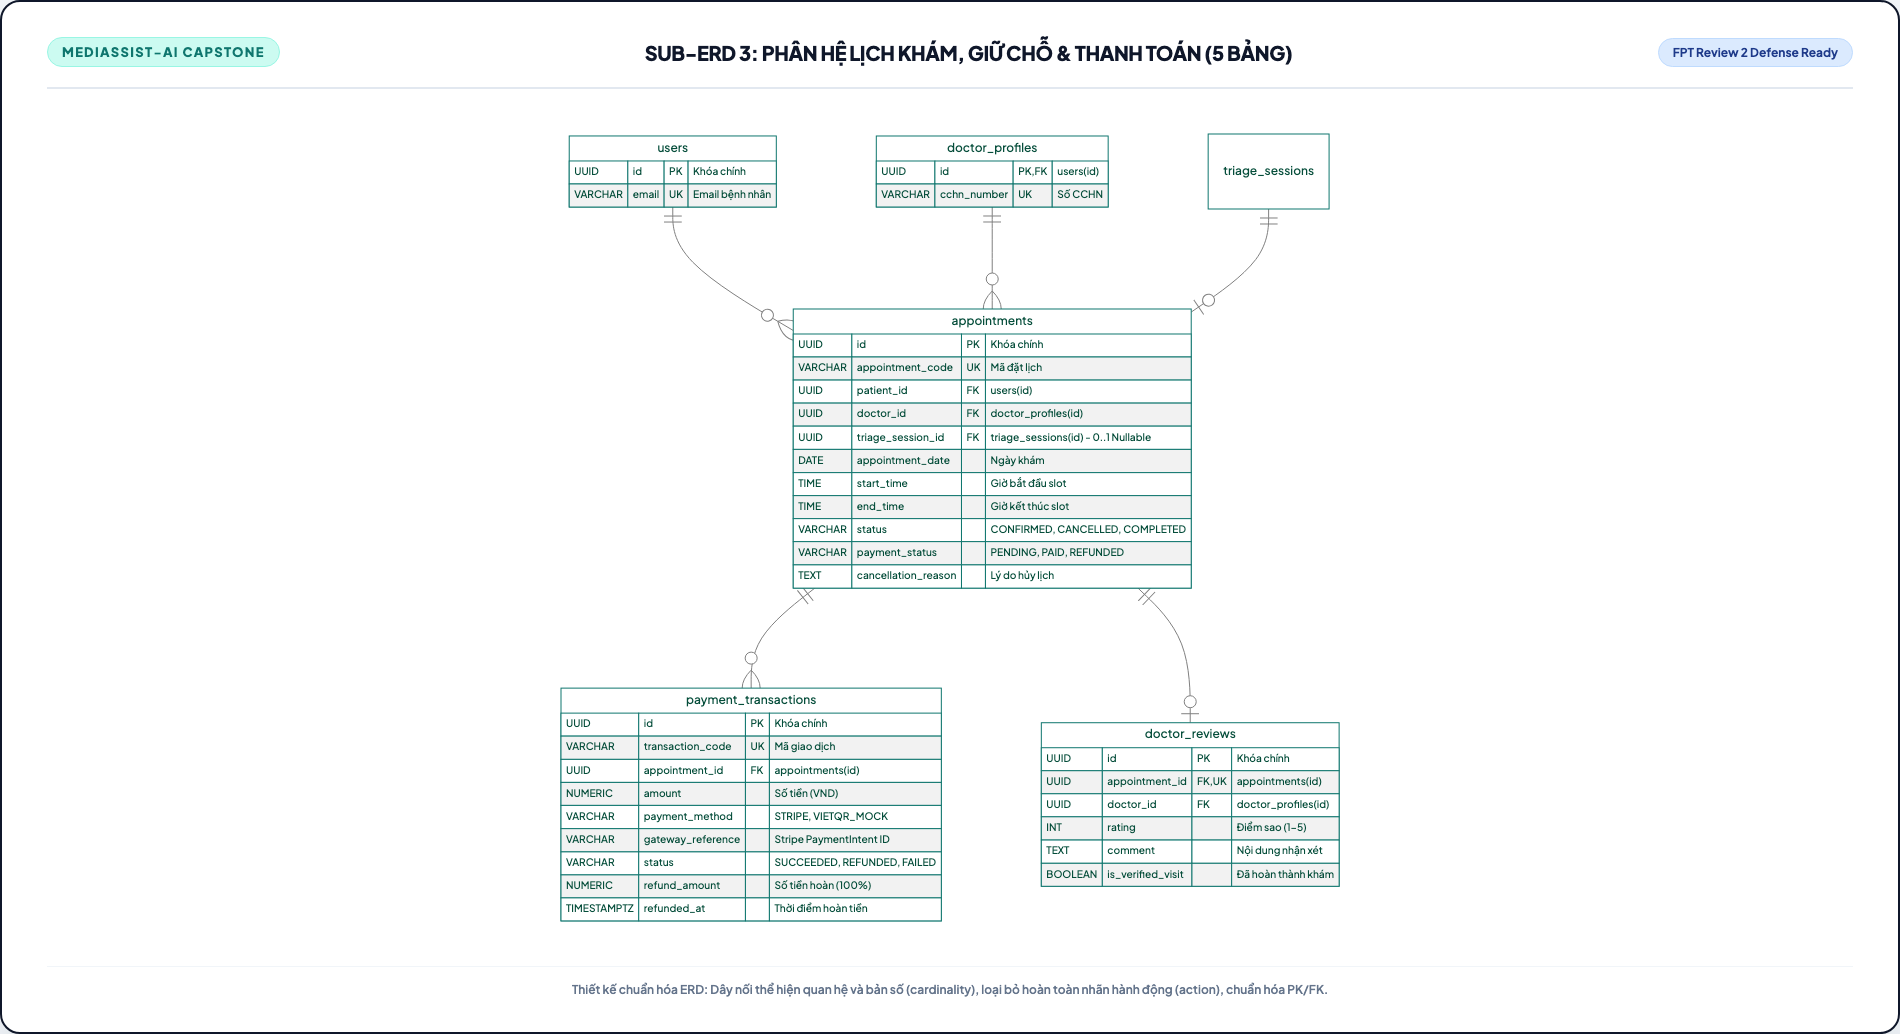
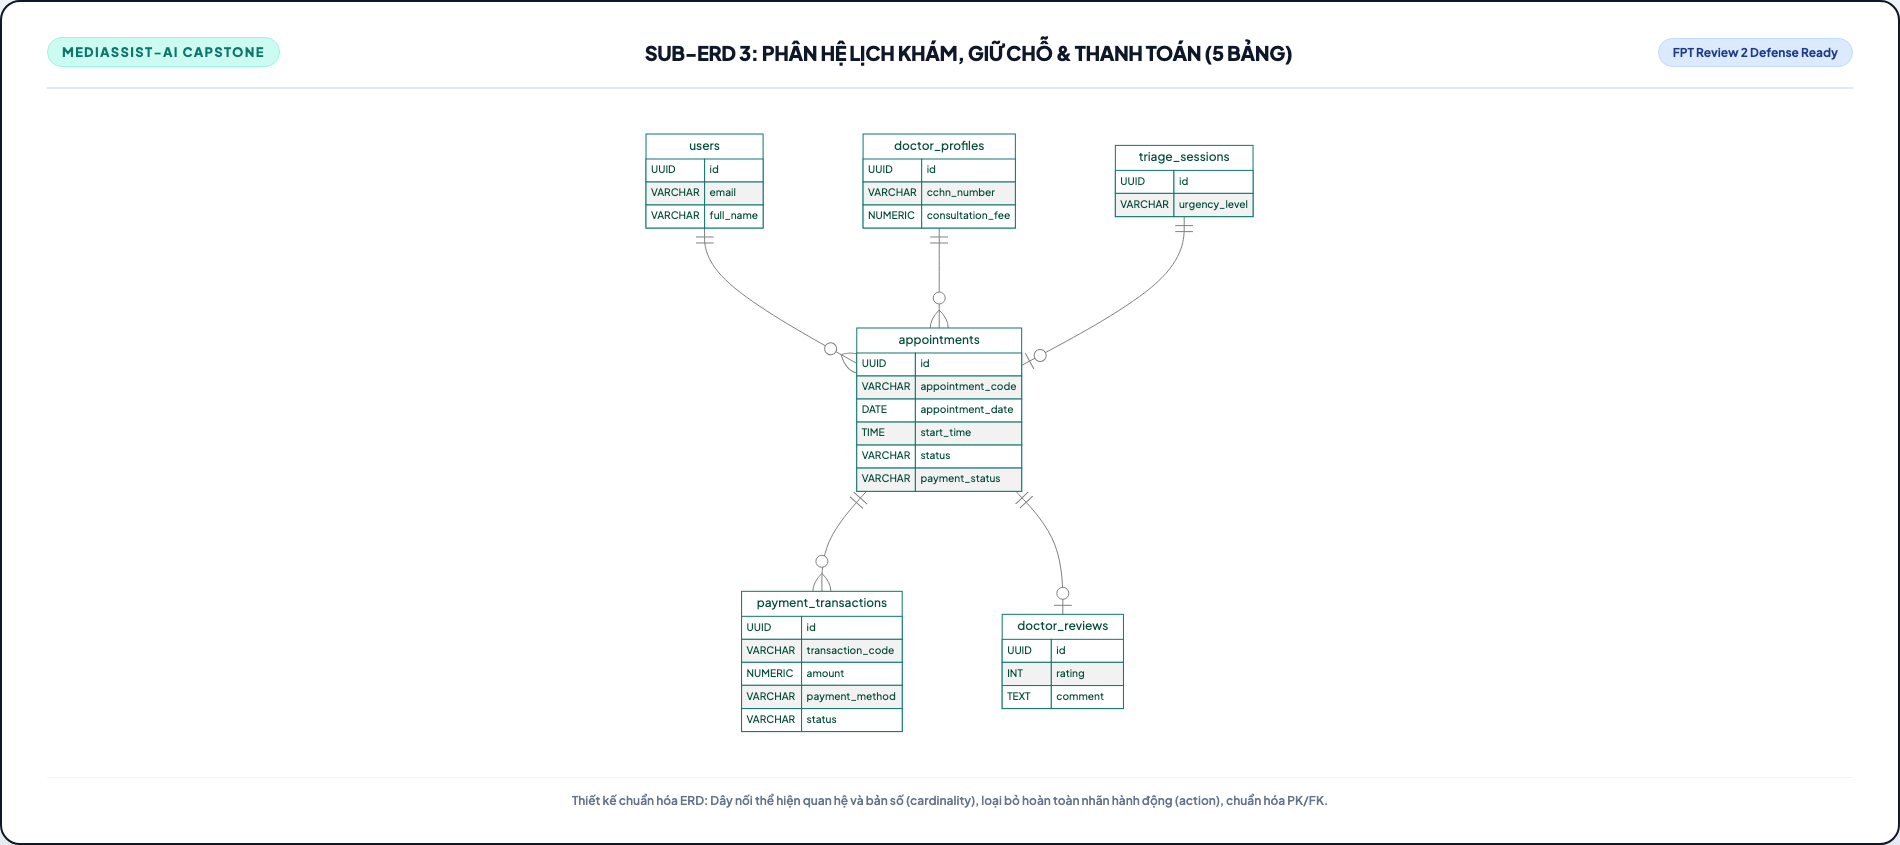
docs: streamline ERD diagrams by removing PK/UK column tags and redundant fields

diff --git a/docs/WORK_LOG.md b/docs/WORK_LOG.md
@@ -7,6 +7,41 @@
 
 ---
 
+## [2026-11-24 22:56:00] - CHUẨN HÓA & LÀM GỌN BẢNG SƠ ĐỒ ERD: LOẠI BỎ CỘT PK/UK VÀ CÁC TRƯỜNG DỮ LIỆU THỪA TRÊN CANVA SLIDE
+
+### 1. Thời Gian & Tiêu Đề
+- **Thời gian:** 2026-11-24 22:56:00
+- **Tiêu đề:** Tinh giản và chuẩn hóa toàn bộ các sơ đồ ERD (Sơ đồ ERD quan niệm tổng quan 17 thực thể và các Sub-ERD phân hệ), loại bỏ cột hiển thị cờ `PK`/`UK`/`FK` bên phải bảng và các trường kỹ thuật dư thừa (hash mật khẩu, timestamp kỹ thuật, token, metadata không cần thiết); cập nhật và commit trực tiếp lên Canva Presentation (`DAHa9bmQoV0`).
+
+### 2. Danh Sách Tệp Tin & Thay Đổi Chi Tiết
+- `[MOD]` `docs/images/erd_conceptual_highlevel.png`:
+  - Loại bỏ hoàn toàn cột cờ bên phải (`PK`, `UK`, `FK`, comment tags) trong 17 thực thể.
+  - Tinh giản chỉ giữ lại 2-3 trường kinh doanh cốt lõi (UUID id, VARCHAR name/code/status/level) cho mỗi thực thể.
+  - Tỷ lệ bảng trở nên thanh thoát, gọn gàng, người xem dễ dàng nắm bắt quan hệ và bản số (cardinality).
+- `[MOD]` `docs/images/sub_erd_1_identity_doctor.png`:
+  - Loại bỏ cờ PK/UK và các trường kỹ thuật thừa (`password_hash`, `email_verified`, `token_hash`).
+- `[MOD]` `docs/images/sub_erd_2_triage_vector.png`:
+  - Tinh giản phân hệ Triage & Vector Search: loại bỏ PK/UK, chỉ giữ lại các trường quan trọng phục vụ AI triage và `bio_vector`.
+- `[MOD]` `docs/images/sub_erd_3_booking_payments.png`:
+  - Tinh giản phân hệ Booking & Payments: loại bỏ các cờ PK/UK và trường metadata chi tiết thừa.
+- `[MOD]` `docs/images/sub_erd_4_emr_documents.png`:
+  - Tinh giản các trường log và metadata file nhị phân.
+- `[MOD]` `docs/images/system_architecture.png`:
+  - Tái tạo bản vẽ kiến trúc AWS Blueprint độ nét cao 2200x1400.
+- `[CANVA COMMIT]` Canva Presentation (`DAHa9bmQoV0`):
+  - Slide 8 (Page 8): Cập nhật ảnh `erd_conceptual_highlevel.png` (Asset: `MAHb1zDqees`).
+  - Slide 9 (Page 9): Cập nhật ảnh `sub_erd_1_identity_doctor.png` (Asset: `MAHb1zLi2Uo`).
+  - Slide 10 (Page 10): Cập nhật ảnh `sub_erd_3_booking_payments.png` (Asset: `MAHb17ofWyY`).
+  - Slide 11 (Page 11): Cập nhật ảnh `sub_erd_2_triage_vector.png` (Asset: `MAHb1yH7zkE`).
+  - Giao dịch Canva Transaction `287627667877220813` đã được **COMMITTED** vĩnh viễn vào Canva database.
+
+### 3. Bằng Chứng Kiểm Thử & Trạng Thái
+- Kiểm tra render hình ảnh bằng Playwright Chromium: Tất cả các bảng chỉ hiển thị 2 cột chuẩn: Kiểu dữ liệu (Datatype) và Tên thuộc tính (Attribute Name). Không còn cột thứ 3 chứa nhãn PK/UK hoặc comment rườm rà.
+- Trạng thái Canva: Đã commit thành công với trạng thái `status: committed`.
+- Trạng thái Git: Đang chuẩn bị commit và đẩy lên nhánh `develop`.
+
+---
+
 ## [2026-11-24 21:38:00] - ĐỒNG BỘ TOÀN DIỆN CẢ 2 TỆP EXCEL REPORT 5 LÊN CHUẨN v2.1 KHỚP 100%
 
 ### 1. Thời Gian & Tiêu Đề
